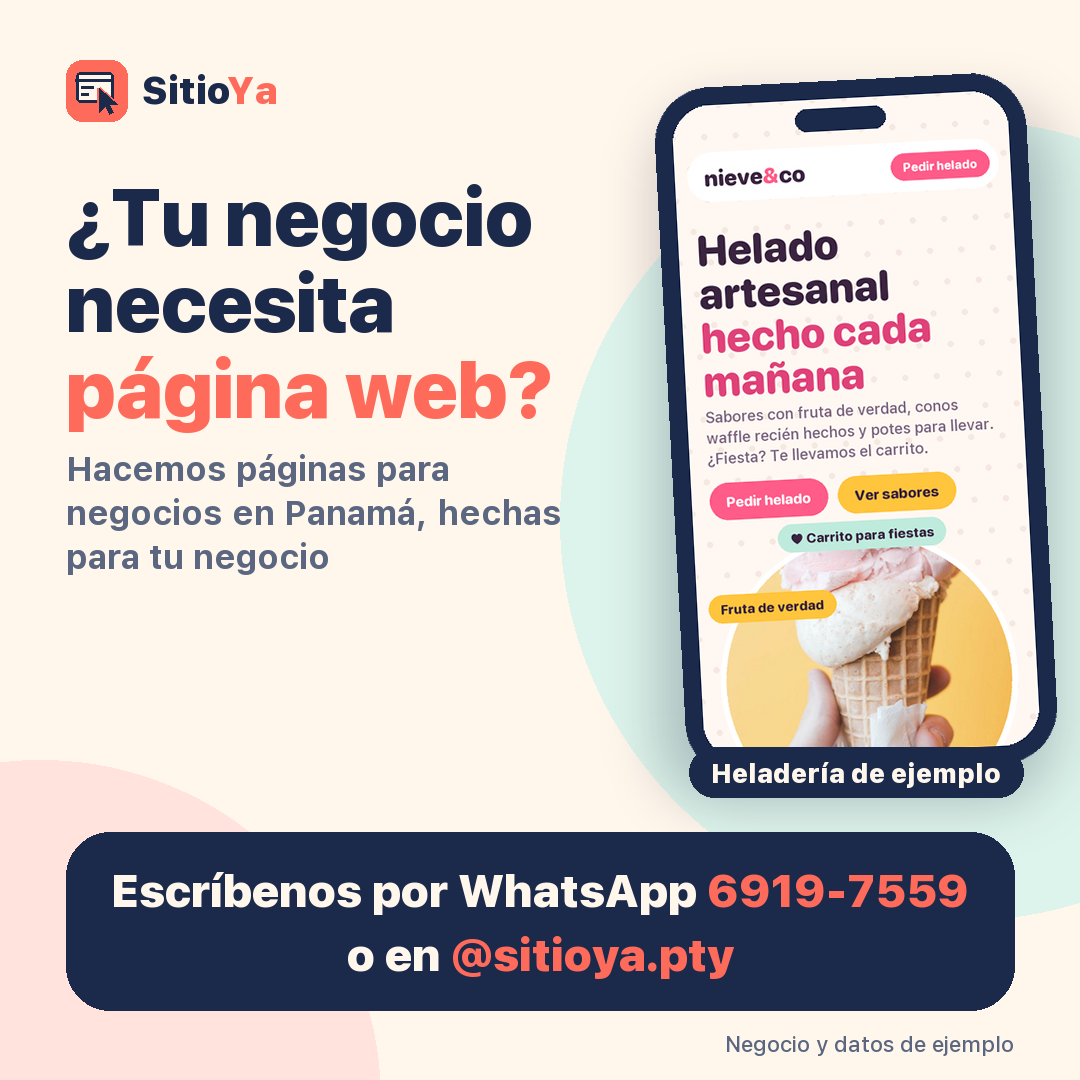
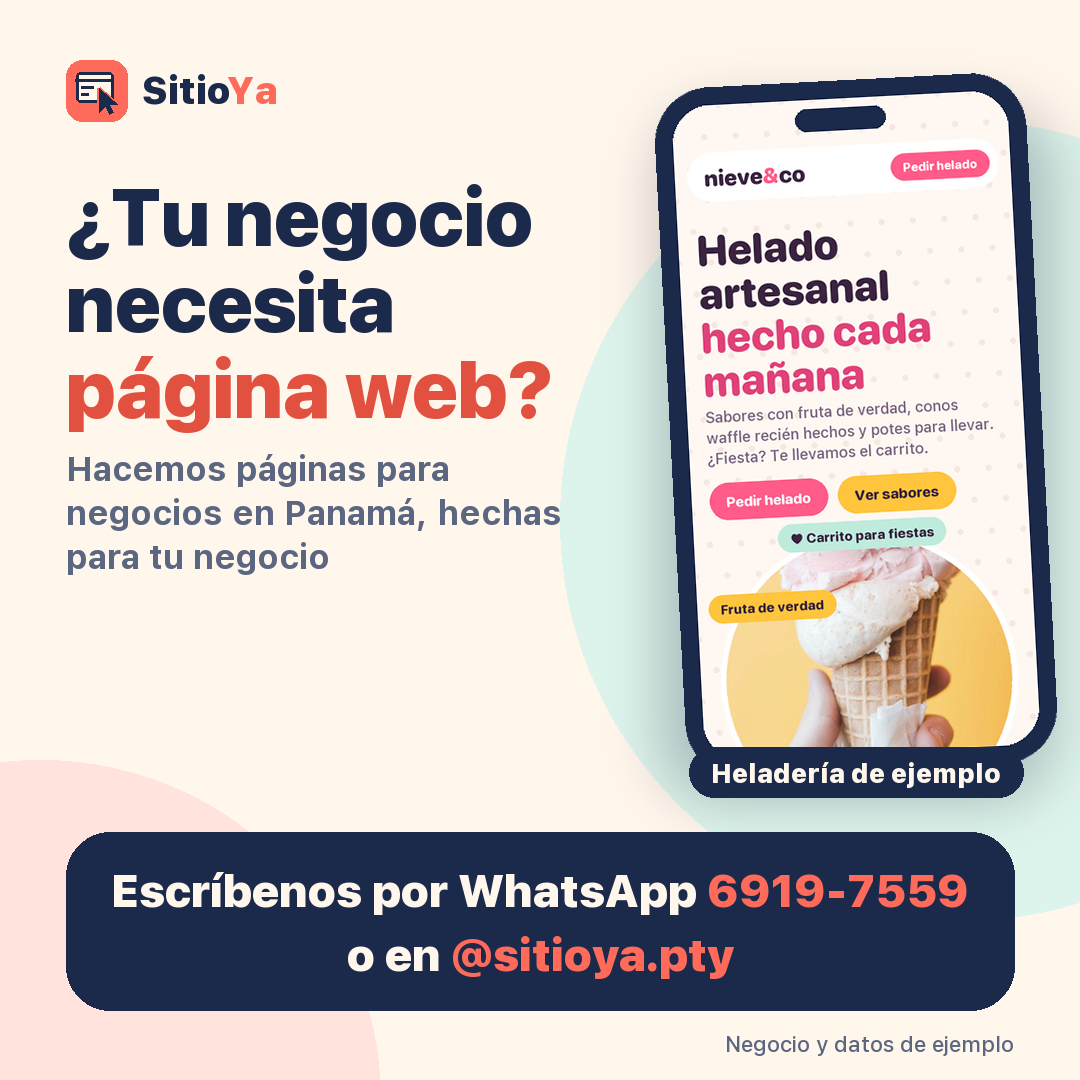
[Claude] Codex: 'página web?' en coral oscuro (contraste) y story con todo más arriba, fuera de la barra de responder

Changed region(s): [[0.0611, 0.3361, 0.5194, 0.3972]]

diff --git a/tools/redes_promo.py b/tools/redes_promo.py
@@ -78,13 +78,13 @@ def story():
     d = ImageDraw.Draw(im)
     f = fuente(94, 900)
     y = lineas(d, (W / 2, 262), TITULO[:1], f, NAVY, centrado=True, ancho_max=990)
-    y = lineas(d, (W / 2, y), TITULO[1:], f, CORAL, centrado=True, ancho_max=990)
+    y = lineas(d, (W / 2, y), TITULO[1:], f, CORAL_D, centrado=True, ancho_max=990)
     fs = fuente(42, 700)
     sub = envolver(d, SUBTITULO, fs, 900)
     assert len(sub) <= 2, sub
     y = lineas(d, (W / 2, y + 26), sub, fs, SOFT, interlineado=1.3, centrado=True)
     # celular con la heladería
-    ancho = 410
+    ancho = 372
     y_tel = y + 46
     w, h = celular_chico(im, ((W - ancho) / 2, y_tel), pantalla_portada(600, 1170), ancho)
     d = ImageDraw.Draw(im)
@@ -97,7 +97,7 @@ def story():
     nota_y = caja[3] + 22
     d.text(((W - texto_ancho(d, NOTA, fuente(24, 500))) / 2, nota_y), NOTA, font=fuente(24, 500), fill=SOFT)
     # todo tiene que quedar arriba de la barra de "responder" de la story (~200 px de abajo)
-    assert nota_y + 30 < H - 150, nota_y
+    assert nota_y + 30 < H - 200, nota_y
     return im
 
 
@@ -113,7 +113,7 @@ def cuadrado():
     ancho_txt = 560
     f = fuente(80, 900)
     y = lineas(d, (izq, 168), ('¿Tu negocio', 'necesita'), f, NAVY, ancho_max=ancho_txt)
-    y = lineas(d, (izq, y), ('página web?',), f, CORAL, ancho_max=ancho_txt)
+    y = lineas(d, (izq, y), ('página web?',), f, CORAL_D, ancho_max=ancho_txt)
     fs = fuente(34, 700)
     y = lineas(d, (izq, y + 22), envolver(d, SUBTITULO, fs, 520), fs, SOFT, interlineado=1.3)
     assert y < 640, y
